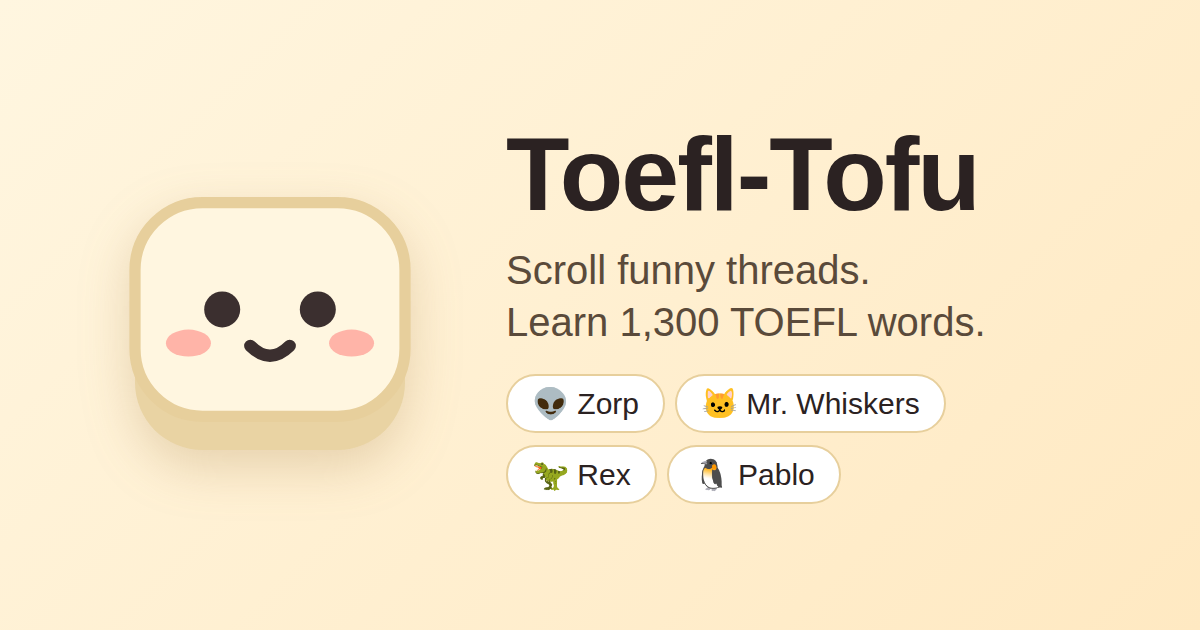
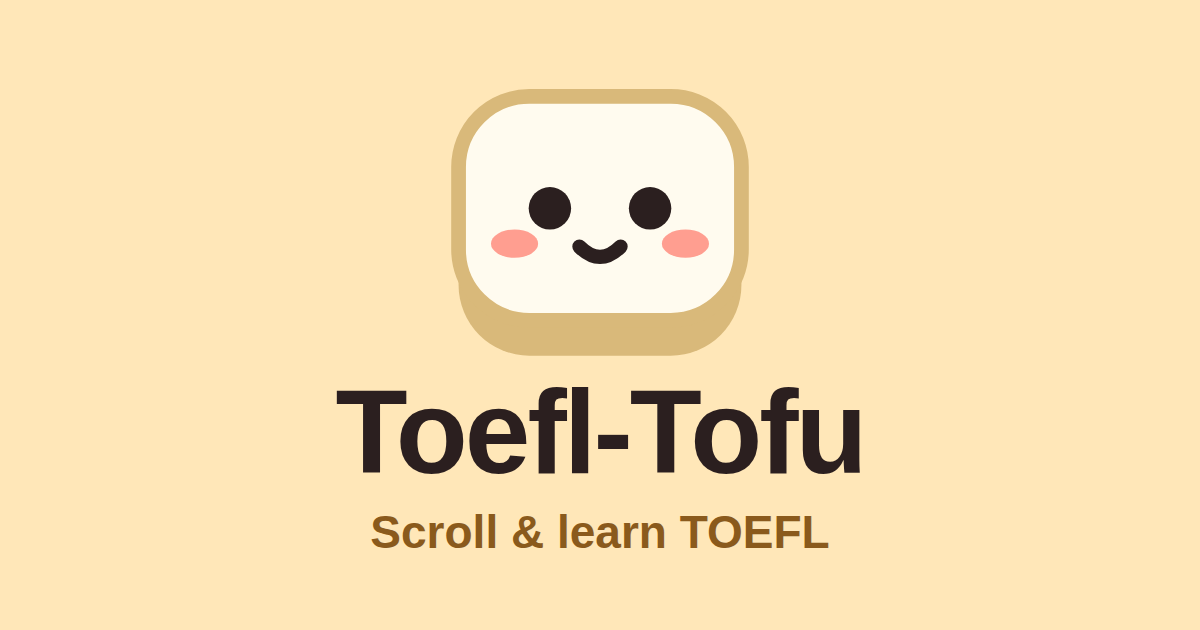
Make link-preview image readable as a small or square thumbnail
Claude-Session: https://claude.ai/code/session_01NDcyMNtYuViSr5m2SuZTWM

diff --git a/index.html b/index.html
@@ -18,14 +18,14 @@
   <meta property="og:title" content="Toefl-Tofu · Learn TOEFL words by scrolling">
   <meta property="og:description" content="Funny characters post Threads-style updates packed with 1,300 TOEFL words. Tap any word for its meaning, KK phonetics and an example.">
   <meta property="og:url" content="https://chiaying1230.github.io/toefl-threads/">
-  <meta property="og:image" content="https://chiaying1230.github.io/toefl-threads/og-image.png?v=1">
+  <meta property="og:image" content="https://chiaying1230.github.io/toefl-threads/og-image.png?v=2">
   <meta property="og:image:width" content="1200">
   <meta property="og:image:height" content="630">
   <meta property="og:image:alt" content="Toefl-Tofu: a smiling tofu mascot">
   <meta name="twitter:card" content="summary_large_image">
   <meta name="twitter:title" content="Toefl-Tofu">
   <meta name="twitter:description" content="Scroll funny threads. Learn 1,300 TOEFL words.">
-  <meta name="twitter:image" content="https://chiaying1230.github.io/toefl-threads/og-image.png?v=1">
+  <meta name="twitter:image" content="https://chiaying1230.github.io/toefl-threads/og-image.png?v=2">
   <link rel="icon" href="icon.svg" type="image/svg+xml">
   <link rel="apple-touch-icon" href="apple-touch-icon.png">
   <link rel="manifest" href="manifest.json">
